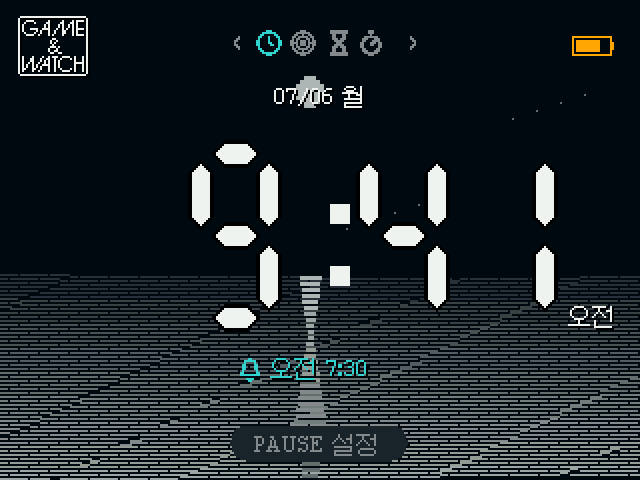
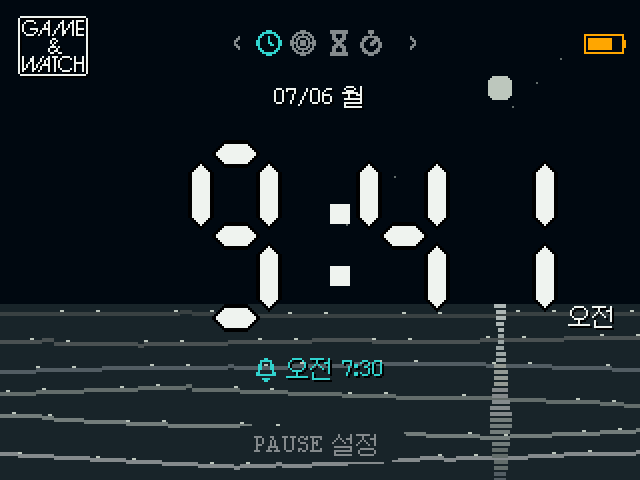
chore(clock): refresh ocean/synthwave previews with time samples
Regenerate the Ocean (01) and Synthwave (03) montage previews for the
reworked scenes, and add three time-sampled frames each
(clock_zscene_0{1,3}_t{0,1,2}.png) so the swell/scroll animation is
visible in the committed previews rather than a single frame. The host
harness now dumps those samples over the real clock face.

diff --git a/host/clock_preview.c b/host/clock_preview.c
@@ -422,6 +422,18 @@ int main(void)
         char nm[24]; snprintf(nm, sizeof nm, "zscene_%02d", sc);
         paint(MODE_CLOCK, 1500 + sc * 137, false); dump(nm);
     }
+    /* 9b) the reworked scenes (Ocean=1, Synthwave=3) sampled across time so the
+     * scroll/swell motion is visible in the committed previews, not just one frame */
+    {
+        static const int RW[] = { 1, 3 };
+        for (unsigned r = 0; r < sizeof RW / sizeof RW[0]; r++) {
+            s_scene = RW[r];
+            for (int ti = 0; ti < 3; ti++) {
+                char nm[24]; snprintf(nm, sizeof nm, "zscene_%02d_t%d", RW[r], ti);
+                paint(MODE_CLOCK, 800 + ti * 1300, false); dump(nm);
+            }
+        }
+    }
     s_anim = 0; s_scene = 0;
     return 0;
 }
